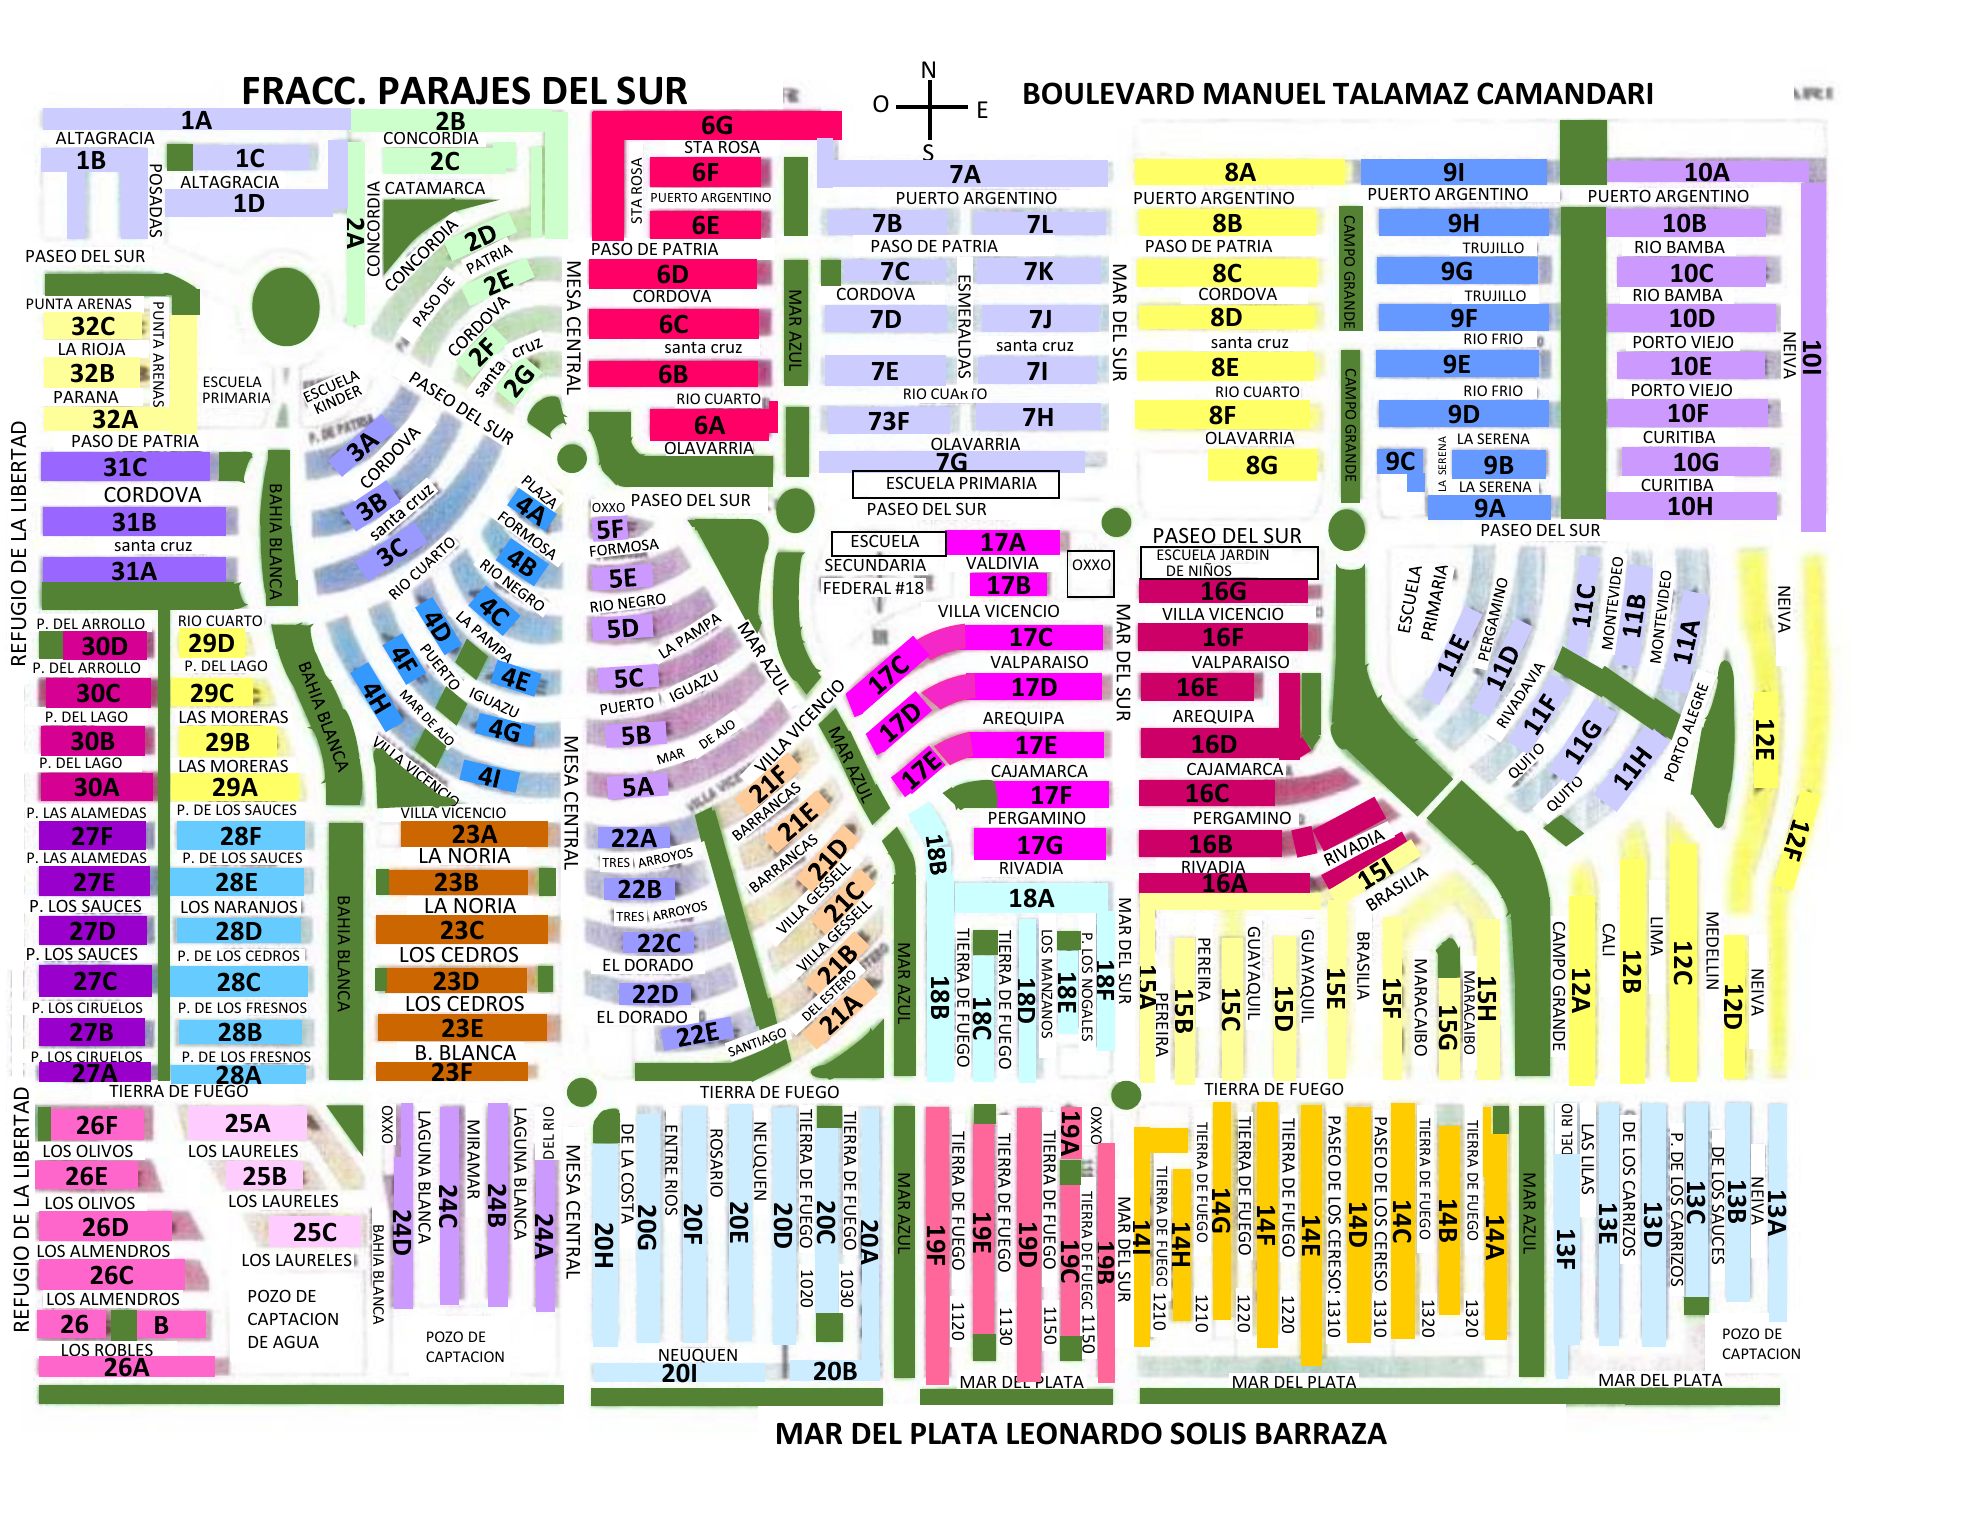
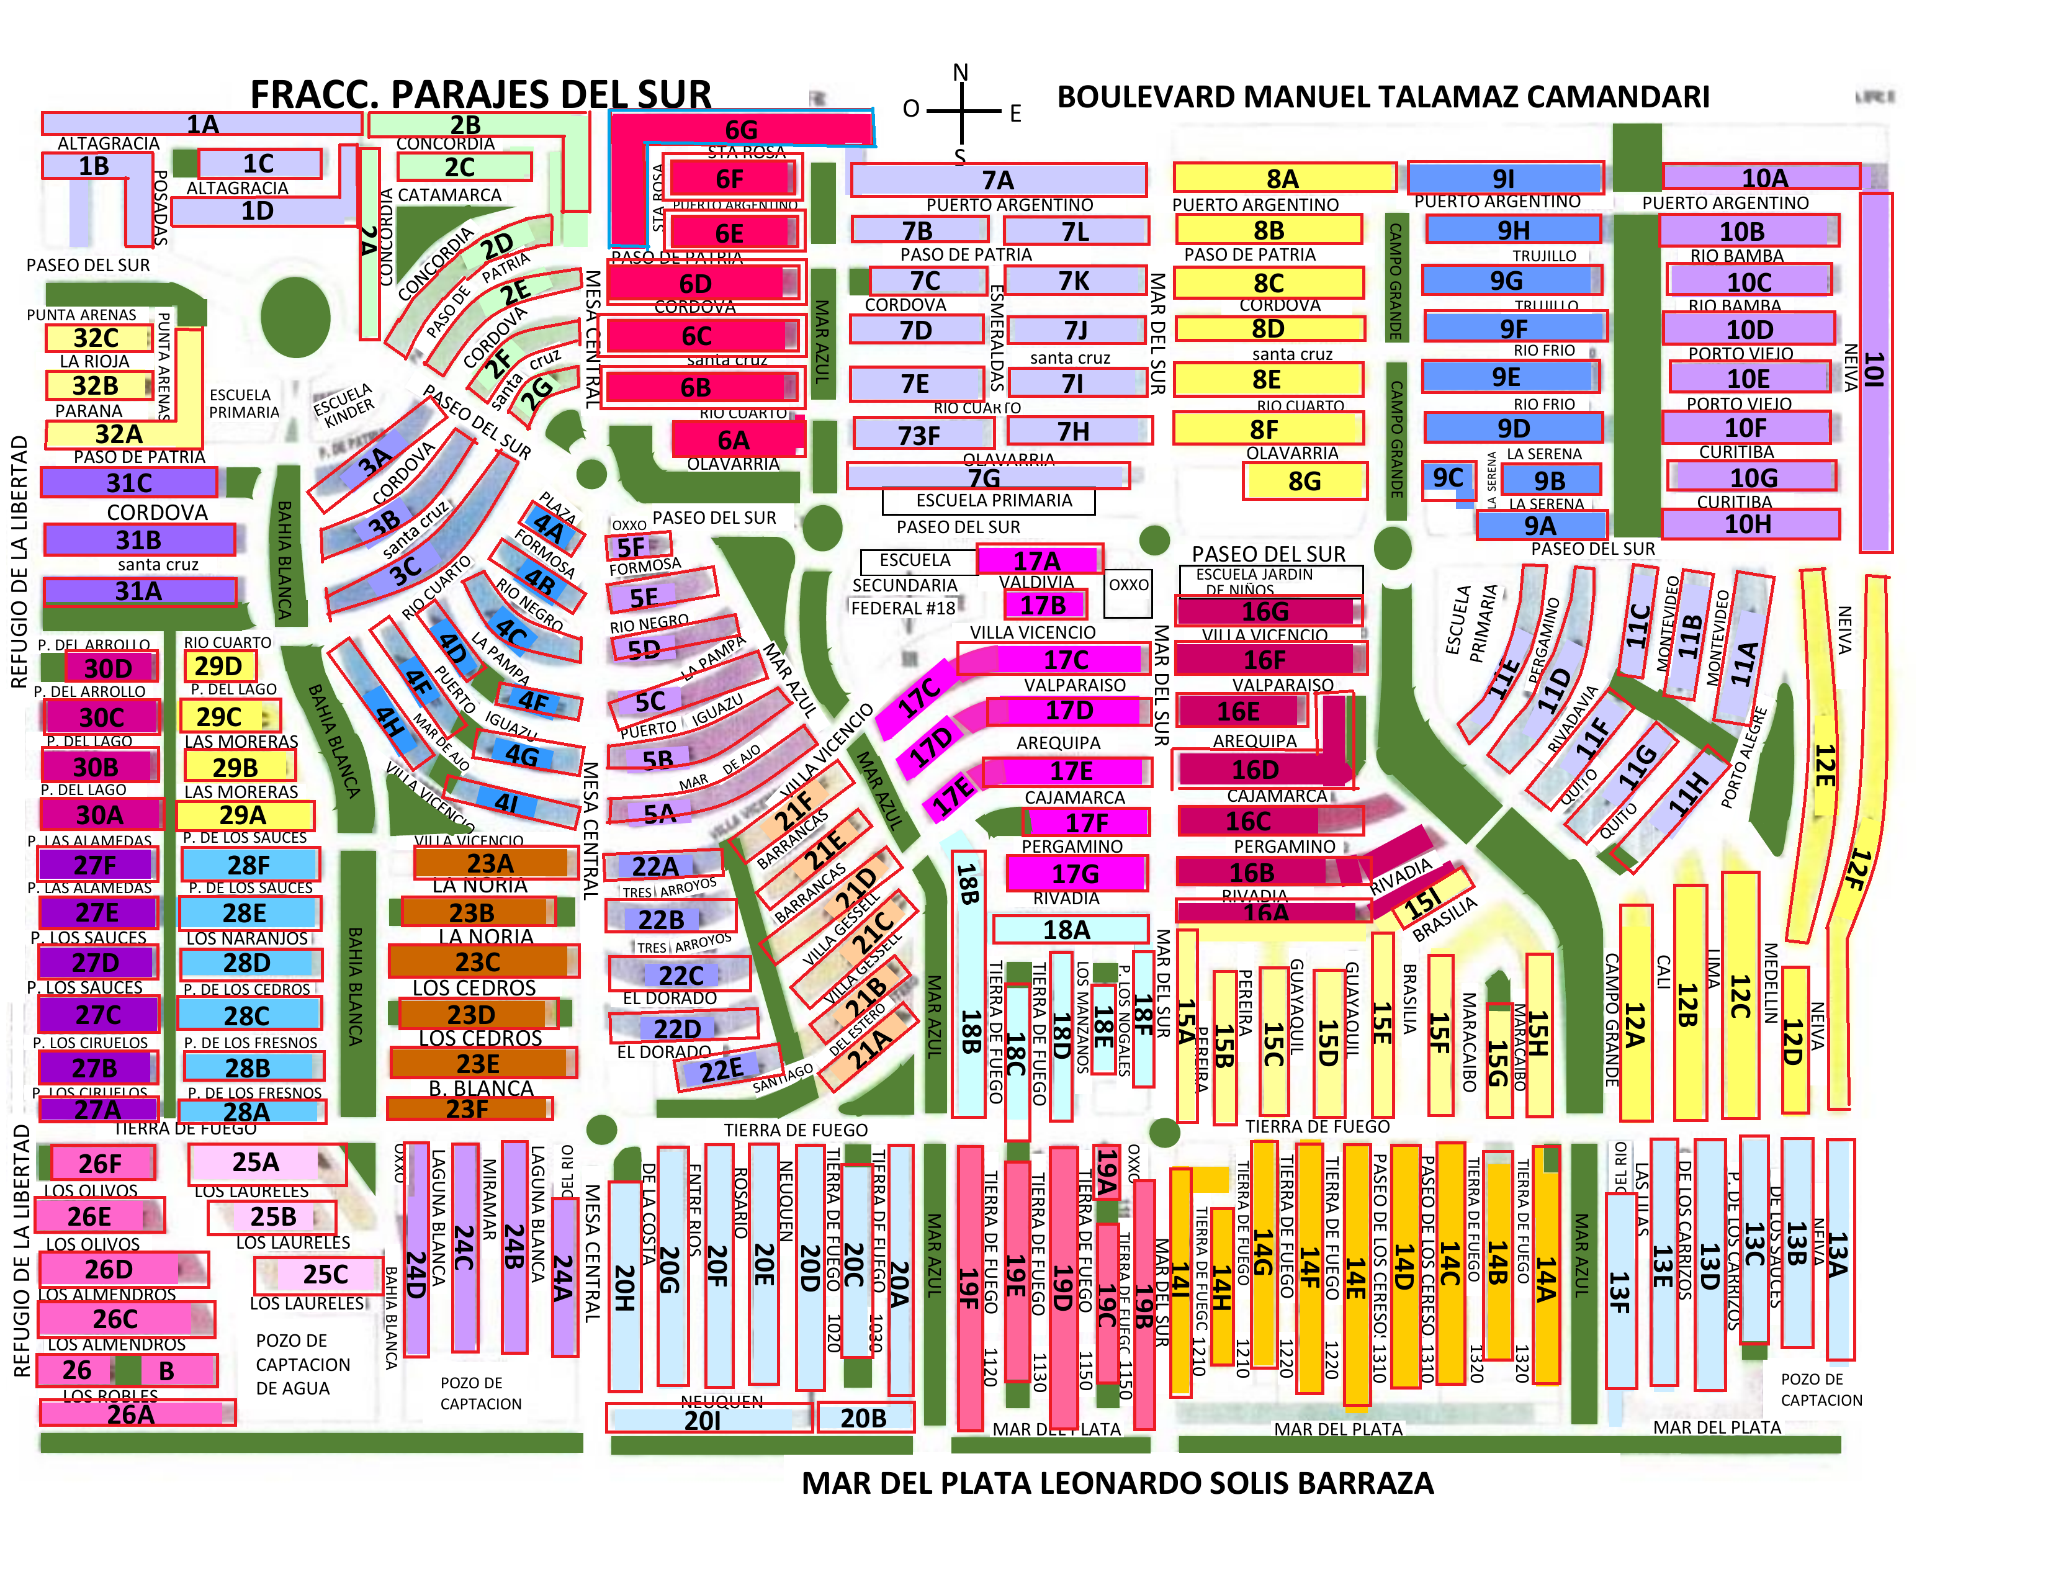
Add files via upload

Changed region(s): [[0.0, 0.0614, 0.9242, 0.9523]]

diff --git a/index.html b/index.html
@@ -1,15 +1,17 @@
-<!doctype html><html lang="es"><head><meta charset="utf-8"><meta name="viewport" content="width=device-width,initial-scale=1,viewport-fit=cover"><meta name="theme-color" content="#174d70"><link rel="manifest" href="manifest.webmanifest"><link rel="icon" href="icon-192.png"><meta name="apple-mobile-web-app-capable" content="yes"><title>Parajes del Sur — Catálogo 2.4</title><style>
+<!doctype html><html lang="es"><head><meta charset="utf-8"><meta name="viewport" content="width=device-width,initial-scale=1,viewport-fit=cover"><meta name="theme-color" content="#174d70"><link rel="manifest" href="manifest.webmanifest"><link rel="icon" href="icon-192.png"><meta name="apple-mobile-web-app-capable" content="yes"><title>Parajes del Sur — Catálogo 2.5</title><style>
 :root{font-family:system-ui,-apple-system,sans-serif;color:#172b3a;background:#f4f7fa}*{box-sizing:border-box}body{margin:0}header{position:sticky;top:0;z-index:30;background:#174d70;color:white;padding:10px 12px;display:flex;align-items:center;gap:10px;box-shadow:0 2px 8px #0002}h1{font-size:1.05rem;margin:0}header p{margin:2px 0 0;font-size:.78rem}.headtxt{flex:1}.iconbtn{width:44px;height:44px;border:0;border-radius:50%;background:#fff;color:#174d70;font-size:1.55rem;display:grid;place-items:center;padding:0}.wrap{padding:8px 10px 90px;max-width:950px;margin:auto}.panel{background:white;border-radius:14px;padding:10px;margin:8px 0;box-shadow:0 2px 10px #1231}input,textarea,button,select{font:inherit}input,textarea,select{width:100%;padding:12px;border:1px solid #b8c7d1;border-radius:10px;margin:6px 0}button,.btn{border:0;border-radius:10px;padding:11px 13px;background:#175d88;color:white;font-weight:600;cursor:pointer}.secondary{background:#e7f0f6;color:#174d70}.map-panel{padding:7px}.map-title{font-size:.9rem;font-weight:700;margin:3px 4px 7px}.mapwrap{position:relative;touch-action:pan-y;line-height:0}.mapwrap img{width:100%;height:auto;display:block;border-radius:8px;user-select:none;-webkit-user-drag:none}#hotspots{position:absolute;inset:0;width:100%;height:100%;overflow:visible;pointer-events:none}.hotspot{fill:#ffdf00;fill-opacity:0;stroke:transparent;stroke-width:5;pointer-events:all;cursor:pointer;touch-action:manipulation}.hotspot:active{fill:#20a05a;fill-opacity:.24;stroke:#174d70;stroke-opacity:.9}.list{display:grid;gap:8px}.territory{display:grid;grid-template-columns:58px 1fr;gap:8px;text-align:left;width:100%;background:#f0f6fa;color:#16394e;border:1px solid #d7e2e9}.territory strong{font-size:1.1rem}.territory small{display:block;font-weight:400;color:#4b6575}.territory .actions{display:flex;gap:6px;align-items:center;flex-wrap:wrap}.territory .maplink{display:inline-block;text-decoration:none;background:#175d88;color:white;border-radius:8px;padding:8px 10px;font-weight:600;font-size:.88rem}.territory .notebtn{padding:8px 10px;font-size:.88rem}.hide{display:none!important}.hint{font-size:.84rem;color:#4e6472}.status{font-size:.85rem;color:#26734b;min-height:1.2em}.fab{position:fixed;right:17px;bottom:20px;z-index:40;width:60px;height:60px;border-radius:50%;font-size:2rem;padding:0;box-shadow:0 4px 14px #0004}.drawer{position:fixed;inset:0;z-index:50;background:#0006;display:none}.drawer.open{display:block}.drawerbox{position:absolute;right:0;top:0;bottom:0;width:min(90vw,420px);overflow:auto;background:#f4f7fa;padding:12px;box-shadow:-4px 0 16px #0003}.drawerhead{display:flex;align-items:center;justify-content:space-between;gap:10px}.drawerhead h2{font-size:1.1rem}.note-modal{position:fixed;inset:0;z-index:60;background:#0007;display:none;align-items:flex-end;justify-content:center}.note-modal.open{display:flex}.note-box{background:white;width:100%;max-width:650px;border-radius:18px 18px 0 0;padding:18px;max-height:85vh;overflow:auto}.note-box h2{margin:0 0 8px}.row{display:flex;gap:8px;flex-wrap:wrap}.row button{flex:1}.empty{padding:12px;color:#526777}
+
+.maptools{display:flex;gap:6px;flex-wrap:wrap;margin:6px 3px 10px}.maptools button{padding:9px 11px;font-size:.88rem}.mapwrap{overflow:auto;max-height:72vh;border-radius:8px;touch-action:pan-x pan-y}.mapstage{position:relative;width:100%;min-width:100%;line-height:0}.mapstage img{width:100%;height:auto;display:block}.mapstage svg{position:absolute;inset:0;width:100%;height:100%;pointer-events:none}.mapstage.touch-on .hotspot{pointer-events:all;stroke:#174d70;stroke-opacity:.9;stroke-width:4;fill:#ffd400;fill-opacity:.08}.mapstage.touch-on .hotspot:active{fill:#20a05a;fill-opacity:.35}.mapwrap:fullscreen{background:#fff;max-height:none;padding:12px}.mapwrap:fullscreen .mapstage{width:min(100%,1600px);margin:auto}.maptools button.active{background:#175d88;color:#fff}
 </style></head><body><header><button class="iconbtn" id="menuBtn" aria-label="Buscar territorios">☰</button><div class="headtxt"><h1>Parajes del Sur</h1><p>201 territorios · Ciudad Juárez, Chihuahua</p></div></header>
 <main class="wrap">
-<section class="panel map-panel"><div class="map-title">Plano de Parajes del Sur · Toca una zona para abrir Maps</div><div class="mapwrap" id="mapwrap"><img id="map" src="plano.png" alt="Plano de Parajes del Sur"><svg id="hotspots" viewBox="0 0 1980 1530" preserveAspectRatio="none" aria-label="Zonas táctiles de prueba">
+<section class="panel map-panel"><div class="map-title">Plano de Parajes del Sur</div><div class="maptools"><button type="button" id="touchToggle" class="secondary">◎ Activar zonas táctiles</button><button type="button" id="zoomOut" class="secondary" aria-label="Alejar">−</button><button type="button" id="zoomIn" class="secondary" aria-label="Acercar">＋</button><button type="button" id="zoomReset" class="secondary">Ajustar</button><button type="button" id="fullMap" class="secondary">⛶ Pantalla completa</button></div><div class="mapwrap" id="mapwrap"><div class="mapstage" id="mapstage"><img id="map" src="plano.png" alt="Plano de Parajes del Sur"><svg id="hotspots" viewBox="0 0 2048 1582" preserveAspectRatio="none" aria-label="Zonas táctiles de prueba">
 <polygon class="hotspot" data-key="1A" points="43,108 351,108 351,130 43,130"/>
 <polygon class="hotspot" data-key="1B" points="41,148 148,148 148,170 65,170 65,239 41,239"/>
 <polygon class="hotspot" data-key="1C" points="168,144 309,144 309,170 168,170"/>
 <polygon class="hotspot" data-key="1D" points="165,190 348,190 348,217 165,217"/>
 <polygon class="hotspot" data-key="2A" points="328,140 365,140 365,430 328,430"/>
 <polygon class="hotspot" data-key="2B" points="350,108 568,108 568,145 350,145"/>
-</svg></div><p class="hint">Prueba táctil corregida: 1A, 1B, 1C, 1D, 2A y 2B. Toca el rectángulo de color.</p></section>
+</svg></div></div><p class="hint" id="mapHint">Activa «Zonas táctiles» para probar las zonas calibradas. Usa + y − para ampliar como en un PDF; en el teléfono también puedes deslizar el plano ampliado.</p></section>
 <section class="panel"><b id="detailTitle">Selecciona un territorio</b><p class="hint" id="detailHint">Toca una de las zonas habilitadas del plano o abre el menú ☰ para buscarlo.</p><div id="detailActions"></div></section>
 <section class="panel"><b>Respaldo de notas</b><p class="hint">Exporta tus notas para conservarlas o pasarlas a otro teléfono.</p><div class="row"><button id="export">Exportar respaldo</button><label class="btn secondary">Importar respaldo<input id="import" type="file" accept="application/json" hidden></label></div><div class="status" id="status"></div></section>
 </main>
@@ -26,5 +28,14 @@ function openNote(k=''){ $('noteTerritory').value=k;$('noteText').value=k?(state
 $('q').oninput=e=>render(e.target.value);$('menuBtn').onclick=()=>{$('drawer').classList.add('open');$('q').focus()};$('closeMenu').onclick=()=>$('drawer').classList.remove('open');$('drawer').addEventListener('click',e=>{if(e.target===$('drawer'))$('drawer').classList.remove('open')});$('addNote').onclick=()=>openNote(selected?.key||'');$('closeNote').onclick=()=> $('noteModal').classList.remove('open');$('noteModal').addEventListener('click',e=>{if(e.target===$('noteModal'))$('noteModal').classList.remove('open')});$('saveNote').onclick=()=>{let k=$('noteTerritory').value.trim().toUpperCase(),d=DATA.find(x=>x.key===k);if(!d){$('noteStatus').textContent='Escribe una clave válida, por ejemplo 1A.';return}state.notes[k]=$('noteText').value.trim();persist();$('noteStatus').textContent='Nota guardada para '+k+'.';select(k);render($('q').value)};
 document.querySelectorAll('.hotspot').forEach(h=>h.addEventListener('click',e=>{e.preventDefault();e.stopPropagation();const d=DATA.find(x=>x.key===h.dataset.key);if(d){select(d.key);window.location.href=maps(d)}}));
 $('export').onclick=()=>{let blob=new Blob([JSON.stringify(state,null,2)],{type:'application/json'}),a=document.createElement('a');a.href=URL.createObjectURL(blob);a.download='respaldo_parajes_sur.json';a.click();URL.revokeObjectURL(a.href)};$('import').onchange=async e=>{try{let v=JSON.parse(await e.target.files[0].text());if(!v.notes||!Array.isArray(v.pins))throw Error();state=v;persist();render($('q').value);$('noteStatus').textContent='Respaldo importado.'}catch(err){$('status').textContent='No se pudo leer ese respaldo.'}};
-$('territoryOptions').innerHTML=DATA.map(d=>`<option value="${d.key}">${esc(d.street)}</option>`).join('');render();
+$('territoryOptions').innerHTML=DATA.map(d=>`<option value="${d.key}">${esc(d.street)}</option>`).join('');
+let zoomLevel=1;const stage=$('mapstage'),wrap=$('mapwrap'),touchBtn=$('touchToggle');
+function setZoom(z){zoomLevel=Math.max(1,Math.min(4,z));stage.style.width=(zoomLevel*100)+'%';$('zoomOut').disabled=zoomLevel<=1;$('zoomIn').disabled=zoomLevel>=4}
+$('zoomIn').onclick=()=>setZoom(zoomLevel+0.25);
+$('zoomOut').onclick=()=>setZoom(zoomLevel-0.25);
+$('zoomReset').onclick=()=>{setZoom(1);wrap.scrollTo({left:0,top:0,behavior:'smooth'})};
+touchBtn.onclick=()=>{let on=stage.classList.toggle('touch-on');touchBtn.classList.toggle('active',on);touchBtn.textContent=on?'✓ Zonas táctiles activas':'◎ Activar zonas táctiles';$('mapHint').textContent=on?'Toca una de las zonas de prueba delimitadas para abrir Google Maps.':'Activa «Zonas táctiles» para probar las zonas calibradas. Usa + y − para ampliar como en un PDF.'};
+$('fullMap').onclick=async()=>{try{if(!document.fullscreenElement)await wrap.requestFullscreen();else await document.exitFullscreen()}catch(e){$('mapHint').textContent='La pantalla completa no está disponible en este navegador.'}};
+setZoom(1);
+render();
 </script><script>if("serviceWorker" in navigator){window.addEventListener("load",()=>navigator.serviceWorker.register("sw.js").catch(()=>{}));}</script></body></html>

diff --git a/sw.js b/sw.js
@@ -1,1 +1,1 @@
-const CACHE='parajes-sur-v2-4';const ASSETS=['./','./index.html','./plano.png','./manifest.webmanifest','./icon-192.png','./icon-512.png'];self.addEventListener('install',e=>e.waitUntil(caches.open(CACHE).then(c=>c.addAll(ASSETS))));self.addEventListener('activate',e=>e.waitUntil(caches.keys().then(keys=>Promise.all(keys.filter(k=>k!==CACHE).map(k=>caches.delete(k))))));self.addEventListener('fetch',e=>e.respondWith(caches.match(e.request).then(r=>r||fetch(e.request))));
+const CACHE='parajes-sur-v2-5';self.addEventListener('install',e=>e.waitUntil(caches.open(CACHE).then(c=>c.addAll(['./','./index.html','./plano.png','./manifest.webmanifest']))));self.addEventListener('fetch',e=>e.respondWith(caches.match(e.request).then(r=>r||fetch(e.request))));
